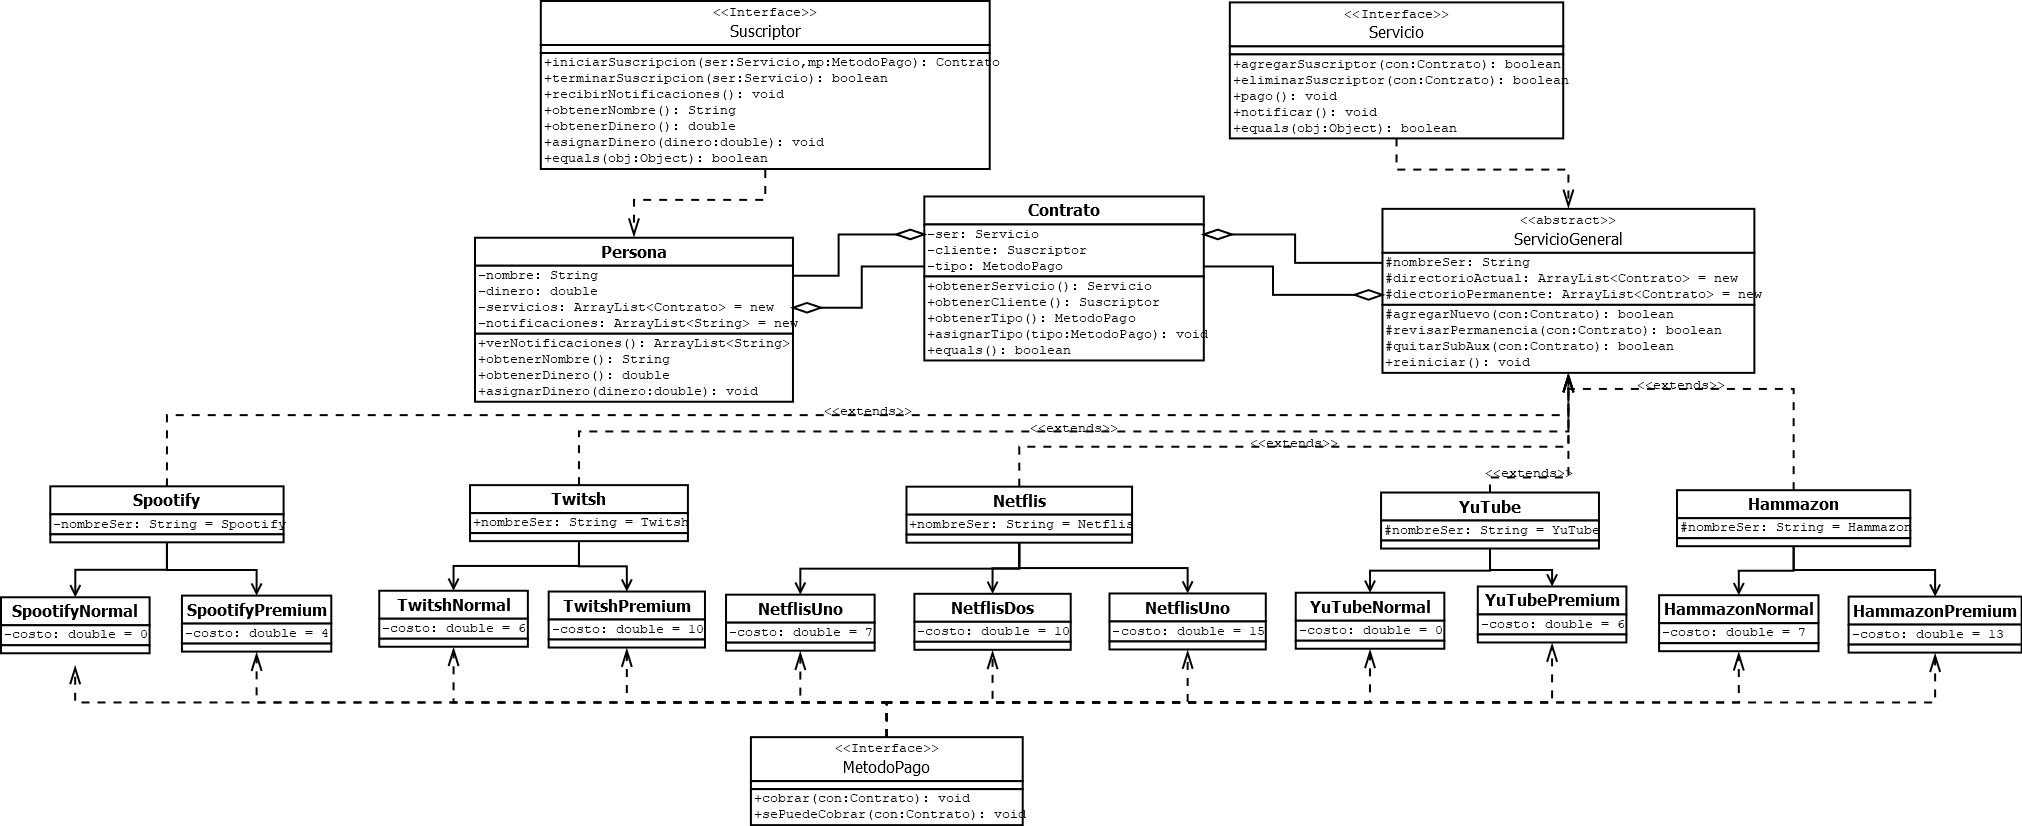
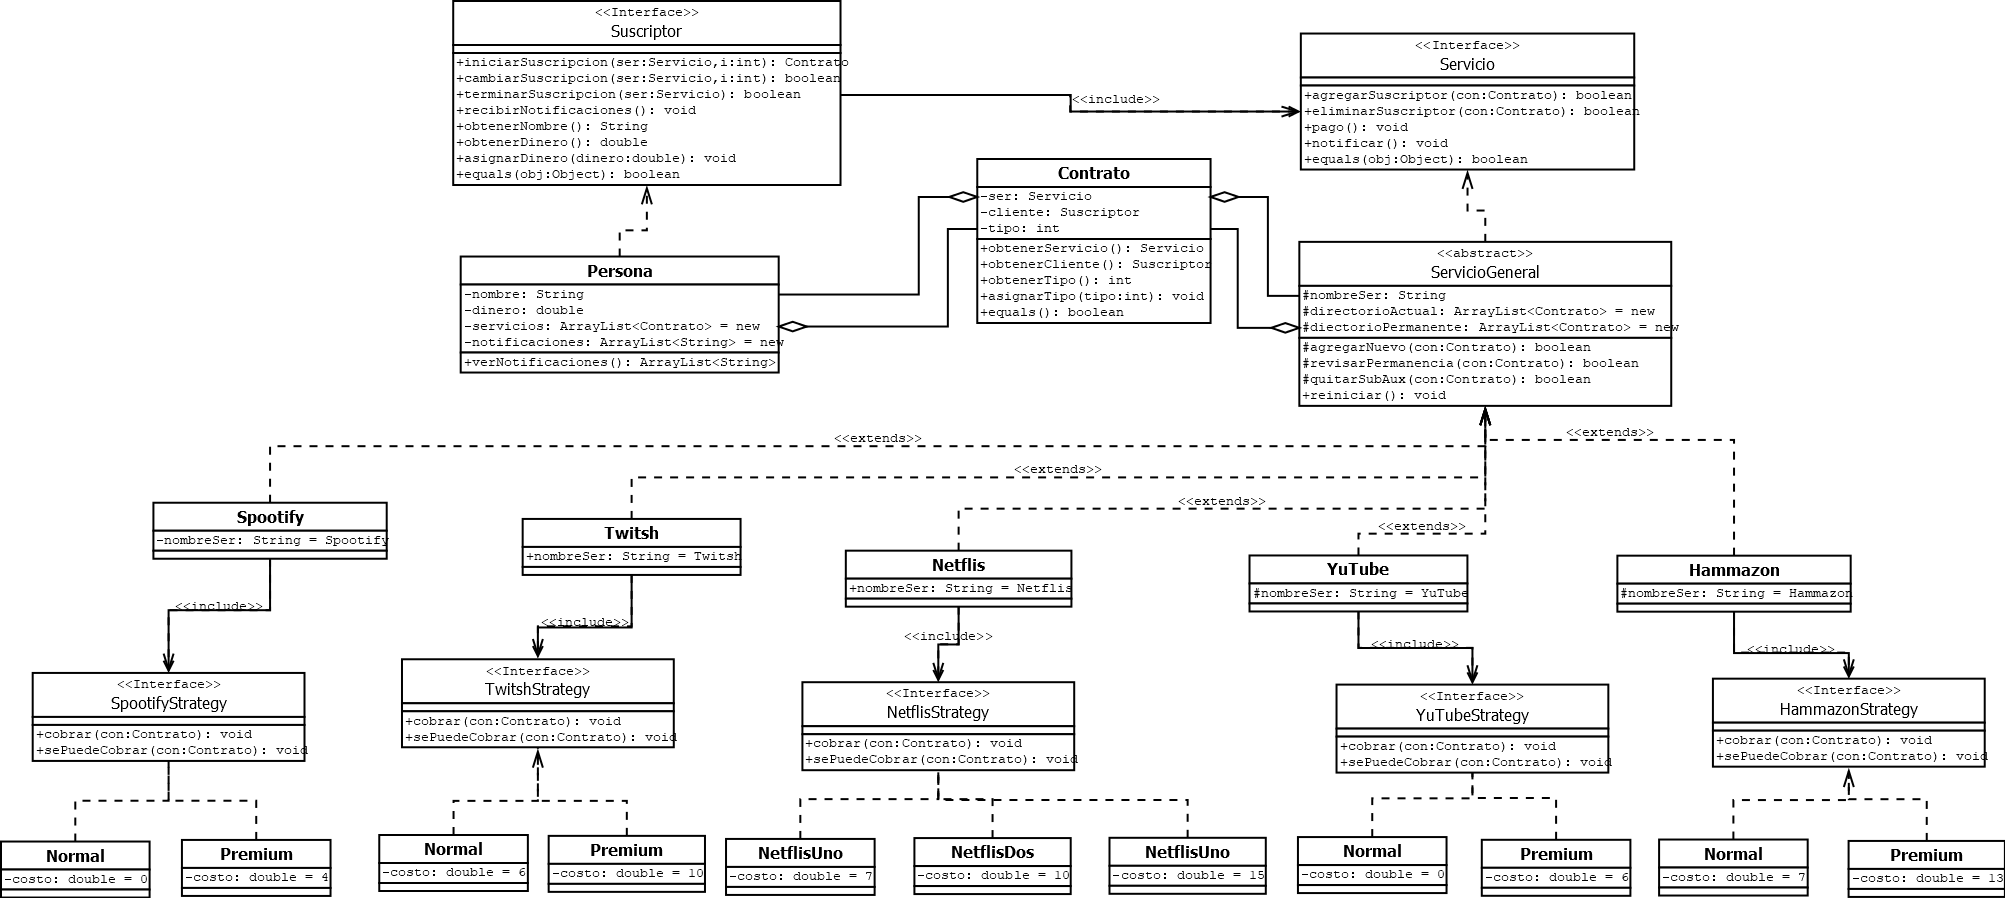
Se modifico el diagrama de clases

Changed region(s): [[0.0, 0.0, 1.0, 1.0]]

diff --git a/Practica_1/src/recursos/suscriptores/Persona.java b/Practica_1/src/recursos/suscriptores/Persona.java
@@ -26,6 +26,7 @@ public class Persona implements Suscriptor{
 		return ser.agregarSuscriptor(con);
 	}
 	
+	@Override
 	public boolean cambiarSuscripcion(Servicio ser, int i) {
 		Contrato con = new Contrato (ser, this);
 		int j = servicios.indexOf(con);
@@ -52,14 +53,17 @@ public class Persona implements Suscriptor{
 		return notificaciones;
 	}
 	
+	@Override
 	public String obtenerNombre() {
 		return nombre;
 	}
 
+	@Override
 	public double obtenerDinero() {
 		return dinero;
 	}
 	
+	@Override
 	public void asignarDinero(double dinero) {
 		this.dinero = dinero;
 	}
